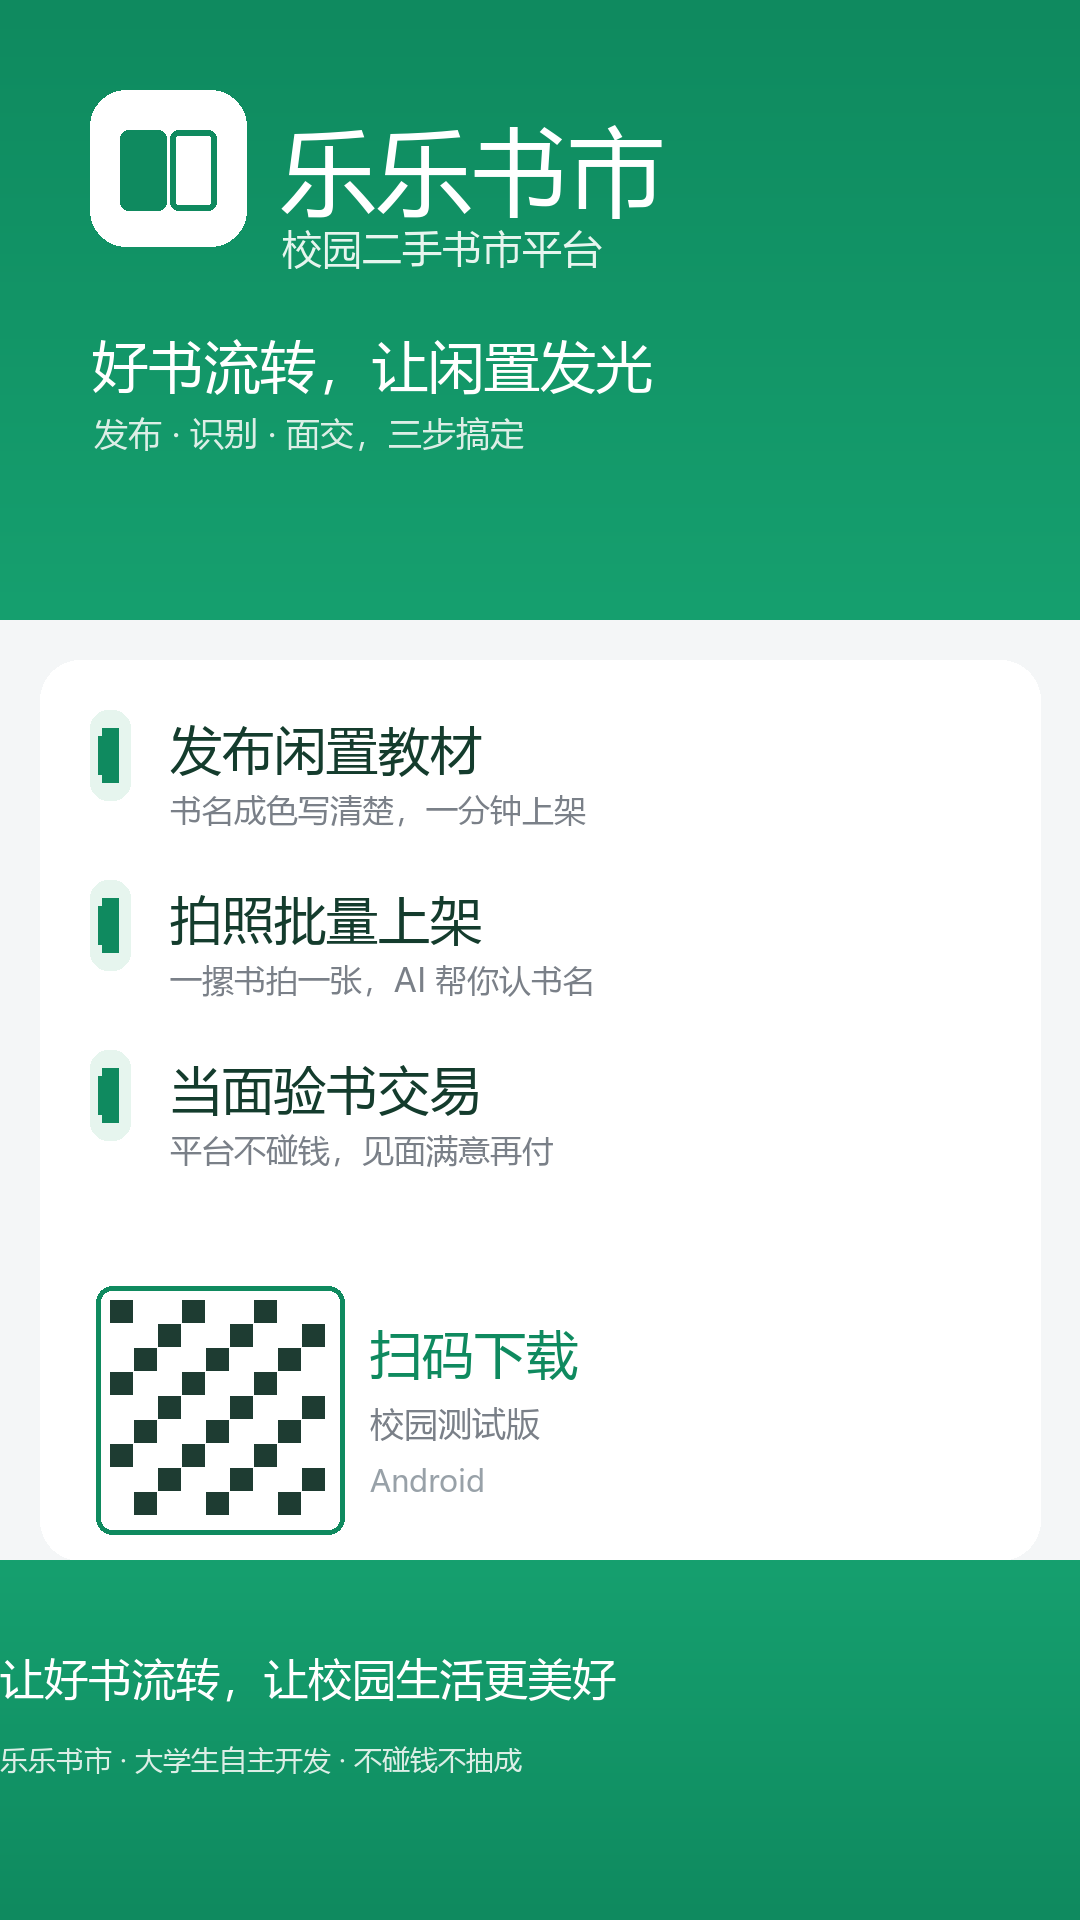
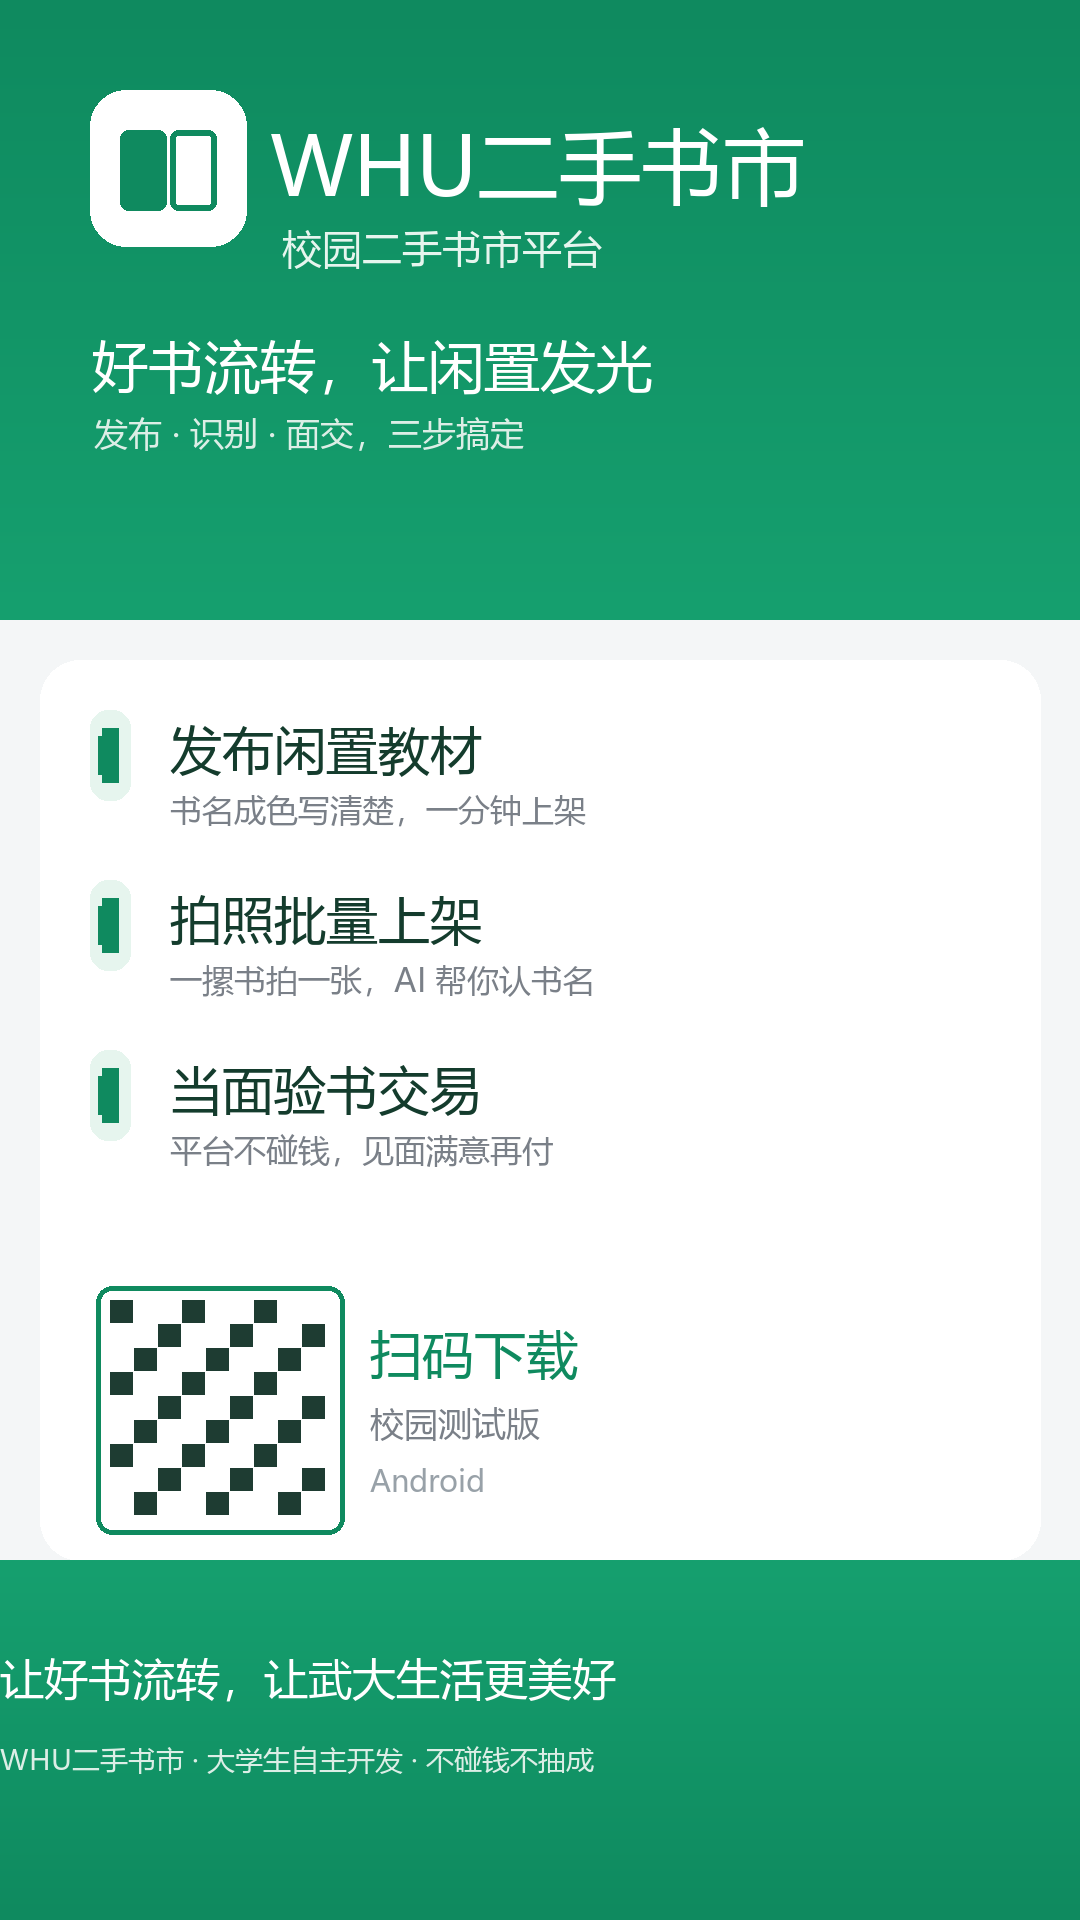
品牌更名 WHU二手书市：全端文案/协议/海报/邮件主题同步；去掉添加学校入口（当前仅开放 WHU）

Changed region(s): [[0.2444, 0.0625, 0.7333, 0.125], [0.0, 0.8438, 0.55, 0.9375]]

diff --git a/app/qml/pages/LoginPage.qml b/app/qml/pages/LoginPage.qml
@@ -81,7 +81,7 @@ Item {
                             anchors.verticalCenter: parent.verticalCenter
                             spacing: 3
                             Text {
-                                text: "乐乐书市"
+                                text: "WHU二手书市"
                                 color: "#FFFFFF"
                                 font.pixelSize: 24
                                 font.weight: Font.Black
@@ -328,32 +328,6 @@ Item {
                                             anchors.fill: parent
                                             onClicked: page.schoolId = modelData.id
                                         }
-                                    }
-                                }
-                            }
-                            // 学校不在此列：低调入口，联系开发者上架新学校
-                            Text {
-                                width: parent.width
-                                text: "找不到你的学校？"
-                                color: Root.Theme.textLight
-                                font.pixelSize: 11
-                                font.underline: true
-                                horizontalAlignment: Text.AlignHCenter
-                                MouseArea {
-                                    anchors.fill: parent
-                                    anchors.margins: -6
-                                    onClicked: {
-                                        Ui.confirm({
-                                            title: "添加新学校",
-                                            text: "平台目前先开放武汉大学试点。如果你的学校不在此列，请添加开发者微信：18956014656，提供学校名称即可为你上架。",
-                                            okText: "复制微信号",
-                                            cancelText: "关闭"
-                                        }, function (ok) {
-                                            if (ok) {
-                                                Clipboard.text = "18956014656"
-                                                Ui.toast("微信号已复制")
-                                            }
-                                        })
                                     }
                                 }
                             }
@@ -658,7 +632,7 @@ Item {
 
 readonly property var _agreementParas: [
         '更新日期：2026 年 9 月 9 日　　生效日期：2026 年 9 月 9 日',
-        '欢迎使用乐乐书市（以下简称“本平台”）。本平台为面向在校学生的校园二手书市信息平台，提供闲置教材等二手书信息展示与买卖沟通渠道。你（以下简称“用户”）在注册前请务必仔细阅读本协议，提交注册即视为已阅读、理解并同意本协议全部内容。',
+        '欢迎使用WHU二手书市（以下简称“本平台”）。本平台为面向在校学生的校园二手书市信息平台，提供闲置教材等二手书信息展示与买卖沟通渠道。你（以下简称“用户”）在注册前请务必仔细阅读本协议，提交注册即视为已阅读、理解并同意本协议全部内容。',
         '一、平台性质与服务范围',
         '1. 本平台仅提供信息撮合与技术支持：展示用户发布的二手书信息，提供买卖双方沟通渠道。平台不是交易的任何一方，不参与线下交付，不收取任何中介费用，不代收、不托管、不担保任何款项。',
         '2. 平台上的书价等信息仅为双方协商参考，实际交易由双方线下自行当面完成。',
@@ -705,7 +679,7 @@ readonly property var _agreementParas: [
                 Item { width: 8; height: 1 }
                 Text {
                     anchors.bottom: parent.bottom
-                    text: "乐乐书市 · 校园二手书市"
+                    text: "WHU二手书市 · 校园二手书市"
                     color: Root.Theme.textLight
                     font.pixelSize: 11
                 }

diff --git a/app/qml/pages/TabMe.qml b/app/qml/pages/TabMe.qml
@@ -261,14 +261,14 @@ Item {
             SectionLabel { label: "关于" }
             MenuCard {
                 items: [
-                    { icon: "ℹ", label: "关于乐乐书市", action: "about" },
+                    { icon: "ℹ", label: "关于WHU二手书市", action: "about" },
                     { icon: "🚪", label: "退出登录", action: "logout", danger: true }
                 ]
             }
 
             Text {
                 anchors.horizontalCenter: parent.horizontalCenter
-                text: "乐乐书市 v1." + (Math.floor(Session.appVersionCode / 10) % 10) + "." + (Session.appVersionCode % 10) + " · 不碰钱 · 当面交易"
+                text: "WHU二手书市 v1." + (Math.floor(Session.appVersionCode / 10) % 10) + "." + (Session.appVersionCode % 10) + " · 不碰钱 · 当面交易"
                 color: Root.Theme.textLight
                 font.pixelSize: 10
             }
@@ -286,7 +286,7 @@ Item {
         } else if (m.action === "checkVersion") {
             app.checkVersion(true)
         } else if (m.action === "about") {
-            Ui.confirm({ title: "乐乐书市 v1." + (Math.floor(Session.appVersionCode / 10) % 10) + "." + (Session.appVersionCode % 10), text: "校园二手书市平台\n· 无密码注册，仅邮箱验证码\n· 闲置教材信息展示，线下当面交易\n· 交易问题请走书籍详情内举报流程", okText: "知道了" }, function () {})
+            Ui.confirm({ title: "WHU二手书市 v1." + (Math.floor(Session.appVersionCode / 10) % 10) + "." + (Session.appVersionCode % 10), text: "校园二手书市平台\n· 无密码注册，仅邮箱验证码\n· 闲置教材信息展示，线下当面交易\n· 交易问题请走书籍详情内举报流程", okText: "知道了" }, function () {})
         } else if (m.page) {
             // 只传目标页确实声明的属性：HistoryPage 用 role，其余页面（公告中心/指南/设置等）没有，
             // 无脑传空 role 会让 push 对不存在属性赋值而中断，页面只显示一半内容

diff --git a/server/src/index.js b/server/src/index.js
@@ -1,4 +1,4 @@
-// 乐乐书市 服务端入口（纯二手书市版）
+// WHU二手书市 服务端入口（纯二手书市版）
 const path = require('path');
 const http = require('http');
 const express = require('express');
@@ -74,7 +74,7 @@ app.get('/d', (req, res) => {
 <html lang="zh-CN"><head>
 <meta charset="utf-8">
 <meta name="viewport" content="width=device-width, initial-scale=1">
-<title>乐乐书市 · App 下载</title>
+<title>WHU二手书市 · App 下载</title>
 <style>
   body{margin:0;font-family:-apple-system,'PingFang SC','Microsoft YaHei',sans-serif;
     background:linear-gradient(180deg,#0f8a5f 0%,#16a06f 30%,#f4f6f7 30.1%);min-height:100vh;text-align:center}
@@ -92,8 +92,8 @@ app.get('/d', (req, res) => {
   .foot{color:#a8b0b6;font-size:11px;margin-top:22px;line-height:1.7}
 </style></head><body>
 <div class="wrap">
-  <img class="logo" src="/appicon.png" alt="乐乐书市">
-  <h1>乐乐书市</h1>
+  <img class="logo" src="/appicon.png" alt="WHU二手书市">
+  <h1>WHU二手书市</h1>
   <div class="sub">校园二手书市 · 好书流转一个学期</div>
   <div class="card">
     ${hasApk ? `<span class="ver">最新版本 v${s.version_code || '?'}</span>
@@ -138,7 +138,7 @@ initWs(server);
 
 server.listen(cfg.port, cfg.host, () => {
   console.log('==========================================');
-  console.log(' 乐乐书市服务端已启动');
+  console.log(' WHU二手书市服务端已启动');
   console.log(` 地址: http://${cfg.host}:${cfg.port}`);
   console.log(` 管理后台: http://服务器IP:${cfg.port}/admin`);
   console.log(` 开发模式: ${cfg.dev_mode ? '开（验证码会打印在控制台）' : '关'}`);

diff --git a/server/admin/index.html b/server/admin/index.html
@@ -3,13 +3,13 @@
 <head>
 <meta charset="UTF-8">
 <meta name="viewport" content="width=device-width, initial-scale=1.0">
-<title>乐乐书市 · 管理后台</title>
+<title>WHU二手书市 · 管理后台</title>
 <link rel="stylesheet" href="admin.css">
 </head>
 <body>
 <div id="login-box">
   <div class="login-card">
-    <h1>乐乐书市 · 管理后台</h1>
+    <h1>WHU二手书市 · 管理后台</h1>
     <input id="login-user" placeholder="账号" autocomplete="username">
     <input id="login-pass" type="password" placeholder="密码" autocomplete="current-password">
     <button id="login-btn" class="primary">登 录</button>
@@ -19,7 +19,7 @@
 
 <div id="app" class="hidden">
   <aside id="sidebar">
-    <div class="brand">乐乐书市后台</div>
+    <div class="brand">WHU二手书市后台</div>
     <nav>
       <a data-view="dashboard" class="active">概览</a>
       <a data-view="schools">学校管理</a>

diff --git a/server/src/mailer.js b/server/src/mailer.js
@@ -36,11 +36,11 @@ async function sendCode(email, purpose) {
   db.prepare(`INSERT INTO email_codes(email,code,purpose,expires_at,created_at) VALUES(?,?,?,?,?)`)
     .run(email, code, purpose, nowTs() + CODE_TTL, nowTs());
 
-  const text = `【乐乐书市】您的验证码是 ${code}，10 分钟内有效。若非本人操作请忽略本邮件。`;
+  const text = `【WHU二手书市】您的验证码是 ${code}，10 分钟内有效。若非本人操作请忽略本邮件。`;
   if (transporter) {
     try {
       await Promise.race([
-        transporter.sendMail({ from: cfg.mail_from, to: email, subject: '【乐乐书市】验证码', text }),
+        transporter.sendMail({ from: cfg.mail_from, to: email, subject: '【WHU二手书市】验证码', text }),
         new Promise((_, rej) => setTimeout(() => rej(new Error('发送超时')), 15000)),
       ]);
     } catch (e) {

diff --git a/app/qml/Main.qml b/app/qml/Main.qml
@@ -7,7 +7,7 @@ import "js/ui.js" as Ui
 import "components"
 import "pages"
 
-// 乐乐书市 主界面外壳：登录/主界面切换、五 Tab、详情页栈、全局覆盖层
+// WHU二手书市 主界面外壳：登录/主界面切换、五 Tab、详情页栈、全局覆盖层
 Window {
     id: root
     visible: true
@@ -16,7 +16,7 @@ Window {
     minimumWidth: 320
     minimumHeight: 520
     color: Theme.bg
-    title: "乐乐书市"
+    title: "WHU二手书市"
 
     property bool loggedIn: false
     property bool booted: false // 启动判定完成标记：自动登录判定前不渲染登录页

diff --git a/app/qml/pages/TabInvite.qml b/app/qml/pages/TabInvite.qml
@@ -177,7 +177,7 @@ Item {
                     }
                     Text {
                         width: parent.width
-                        text: "· 和朋友一起用乐乐书市，好书流转更安心～"
+                        text: "· 和朋友一起用WHU二手书市，好书流转更安心～"
                         color: Root.Theme.textSub
                         font.pixelSize: 13
                         wrapMode: Text.Wrap

diff --git a/server/admin/admin.js b/server/admin/admin.js
@@ -1,4 +1,4 @@
-// 乐乐书市 管理后台（纯二手书市）
+// WHU二手书市 管理后台（纯二手书市）
 const $ = (s, el = document) => el.querySelector(s);
 const $$ = (s, el = document) => [...el.querySelectorAll(s)];
 const esc = (s) => String(s ?? '').replace(/[&<>"']/g, (c) => ({ '&': '&amp;', '<': '&lt;', '>': '&gt;', '"': '&quot;', "'": '&#39;' }[c]));

diff --git a/app/android/src/com/lele/book/ImageHelper.java b/app/android/src/com/lele/book/ImageHelper.java
@@ -108,7 +108,7 @@ public class ImageHelper {
     }
 
     /**
-     * 从服务器下载宣传海报并保存到系统相册（Pictures/乐乐书市/）。
+     * 从服务器下载宣传海报并保存到系统相册（Pictures/WHU二手书市/）。
      * 走 MediaStore 插入，API 29+ 无需存储权限。
      * @return true = 保存成功
      */
@@ -129,10 +129,10 @@ public class ImageHelper {
 
             android.content.ContentValues v = new android.content.ContentValues();
             v.put(android.provider.MediaStore.Images.Media.DISPLAY_NAME,
-                    "乐乐书市海报_" + System.currentTimeMillis() + ".png");
+                    "WHU二手书市海报_" + System.currentTimeMillis() + ".png");
             v.put(android.provider.MediaStore.Images.Media.MIME_TYPE, "image/png");
             v.put(android.provider.MediaStore.Images.Media.RELATIVE_PATH,
-                    android.os.Environment.DIRECTORY_PICTURES + "/乐乐书市");
+                    android.os.Environment.DIRECTORY_PICTURES + "/WHU二手书市");
             android.net.Uri uri = ctx.getContentResolver()
                     .insert(android.provider.MediaStore.Images.Media.EXTERNAL_CONTENT_URI, v);
             if (uri == null) return false;

diff --git a/app/src/main.cpp b/app/src/main.cpp
@@ -50,7 +50,7 @@ private:
 int main(int argc, char *argv[])
 {
     QGuiApplication app(argc, argv);
-    QGuiApplication::setApplicationName(QStringLiteral("乐乐书市"));
+    QGuiApplication::setApplicationName(QStringLiteral("WHU二手书市"));
     QGuiApplication::setOrganizationName(QStringLiteral("LeLeBook"));
 
     // 全平台统一用 Basic 控件样式：Windows 原生样式不支持自定义 background，

diff --git a/README.md b/README.md
@@ -1,4 +1,4 @@
-# 乐乐书市 · 校园二手书市平台
+# WHU二手书市 · 校园二手书市平台
 
 面向在校学生的校园二手书市：发布闲置教材（书名/课程/成色/价格，支持**拍一张合照 AI 批量识别上架**）→ 同学浏览联系 → 线下当面验书付款。
 
